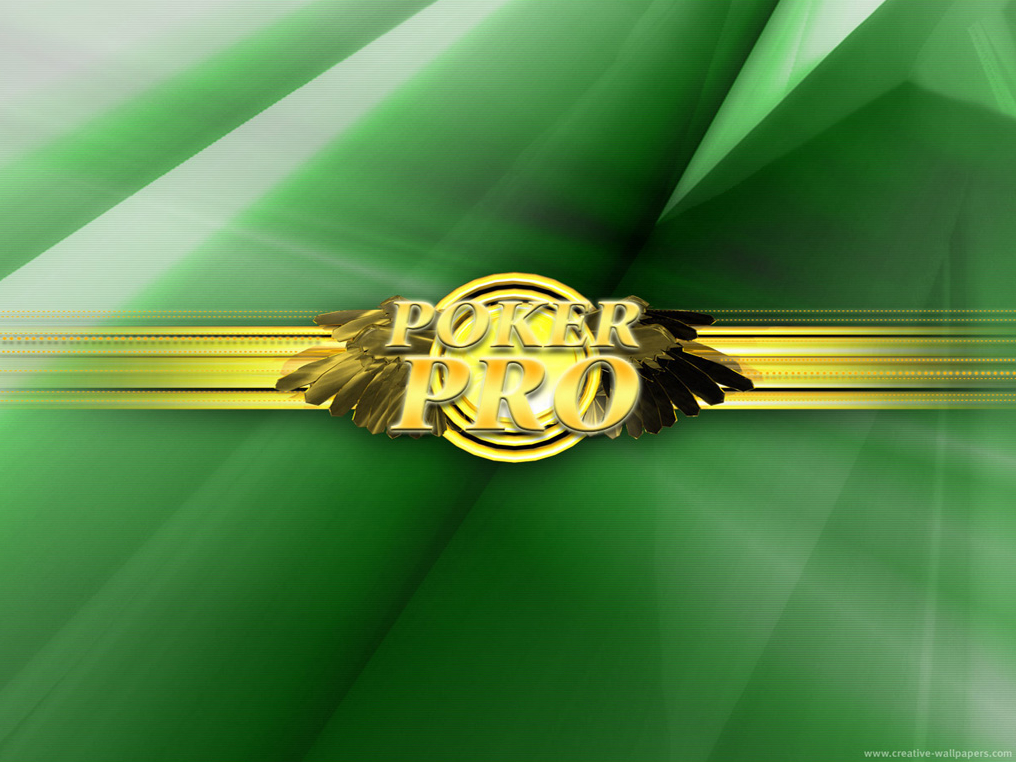
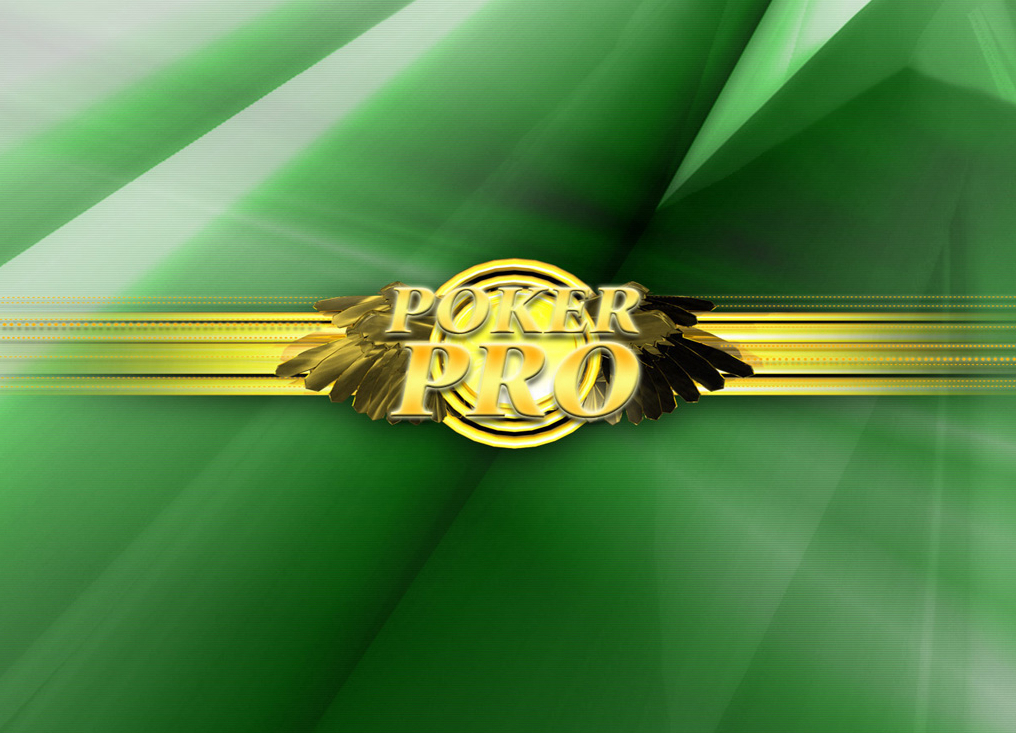
WiPoker: Implementació de l'aplicació

diff --git a/WiPoker/src/presentacio/GuiTaulell.java b/WiPoker/src/presentacio/GuiTaulell.java
@@ -164,7 +164,7 @@ public class GuiTaulell {
 
         @Override
         public void paintComponent(Graphics g) {
-            ImageIcon imatgeFons = new ImageIcon(getClass().getResource("/serveis/imatges/taulaMenu.gif"));
+            ImageIcon imatgeFons = new ImageIcon(getClass().getResource("/serveis/imatges/fons.png"));
             g.drawImage(imatgeFons.getImage(), 0, 0, 1016, 733, null);
             setOpaque(true);
         }
@@ -945,13 +945,13 @@ public class GuiTaulell {
         jtaMissatge = new JTextArea();
         jtaMissatge.setRows(5);
         jtaMissatge.setText("aaaaaa\n jaaaaaaa\naaaaaaaaaaaaaaaa\naaaaaaaaaaaaaaaaaaaaaaa");
-        jtaMissatge.setForeground(Color.WHITE);
+        jtaMissatge.setForeground(Color.BLACK);
         jtaMissatge.setBounds(5, 10, 210, 20);
         jPanelMissatges.add(jtaMissatge);
 
         jlMissatge2 = new JLabel();
         jlMissatge2.setText("aaaaaa\n jaaaaaaa\naaaaaaaaaaaaaaaa\naaaaaaaaaaaaaaaaaaaaaaa");
-        jlMissatge2.setForeground(Color.WHITE);
+        jlMissatge2.setForeground(Color.BLACK);
         jlMissatge2.setBounds(5, 35, 210, 20);
         jPanelMissatges.add(jlMissatge2);
     }

diff --git a/WiPoker/src/presentacio/GuiMenu.java b/WiPoker/src/presentacio/GuiMenu.java
@@ -182,6 +182,7 @@ public class GuiMenu {
 
             private GuiMenuJabber jabber;
 
+            @Override
             public void actionPerformed(ActionEvent event) {
                 try {
                     jFrame.dispose();
@@ -199,6 +200,7 @@ public class GuiMenu {
 
             private GuiLoginJabberPartida partida;
 
+            @Override
             public void actionPerformed(ActionEvent event) {
                 try {
                     jFrame.dispose();
